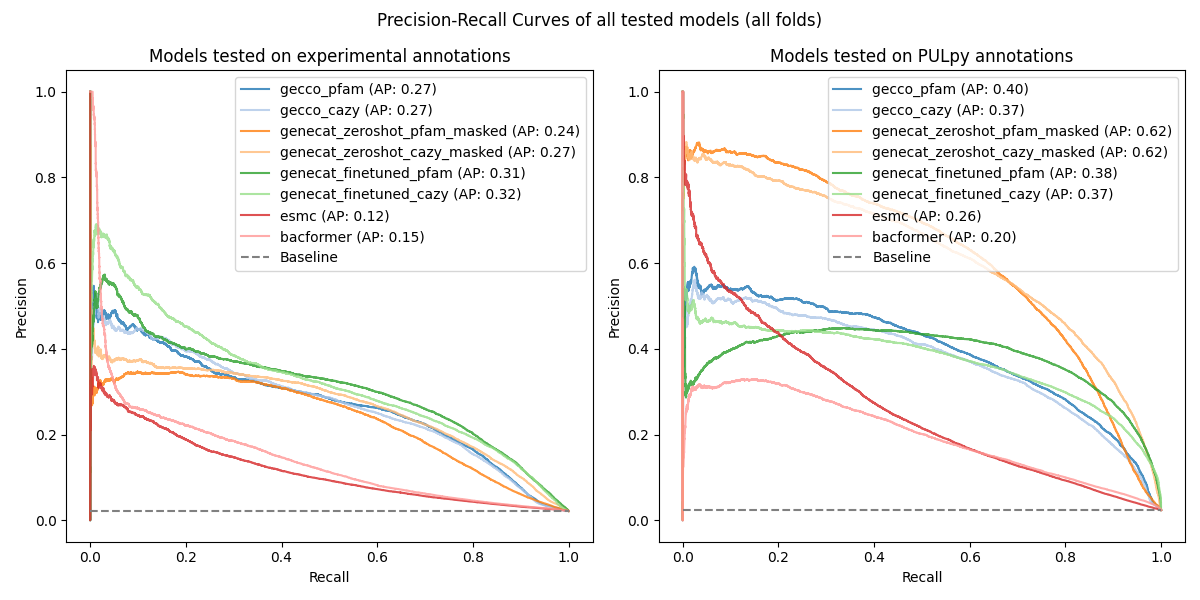
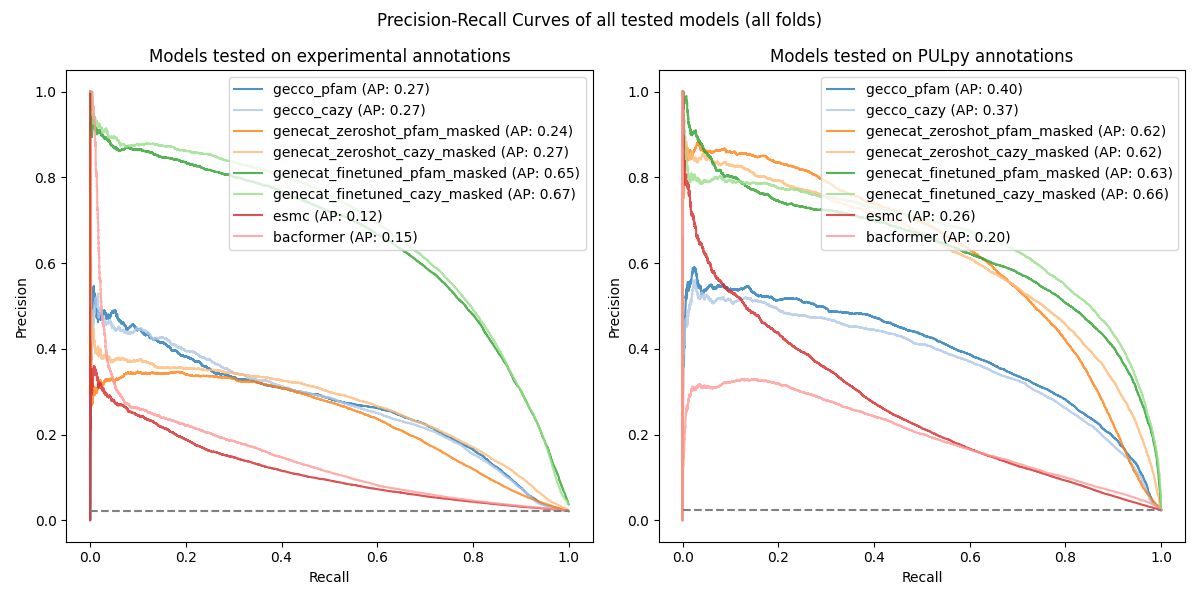
improve aggregated plots

diff --git a/src/scripts/visualization/evaluate_predictions.py b/src/scripts/visualization/evaluate_predictions.py
@@ -187,13 +187,13 @@ def evaluate_model(args, model_name):
             weight=args.weight
         )
         evaluator.precision_recall_curve("all")
-        evaluator.test_cryptic_puls("all")
+        evaluator.test_cryptic_puls(cryptic_df, "all")
 
 
 def main(args):
     model_name = args.model
     if model_name == "all":
-        all_models = ["gecco_pfam", "gecco_cazy", "genecat_zeroshot_pfam_masked", "genecat_zeroshot_cazy_masked", "genecat_finetuned_pfam", "genecat_finetuned_cazy", "esmc", "bacformer"]
+        all_models = ["gecco_pfam", "gecco_cazy", "genecat_zeroshot_pfam_masked", "genecat_zeroshot_cazy_masked", "genecat_finetuned_pfam_masked", "genecat_finetuned_cazy_masked", "esmc", "bacformer"]
         compare_all_models(all_models, model_name)
         return
 
